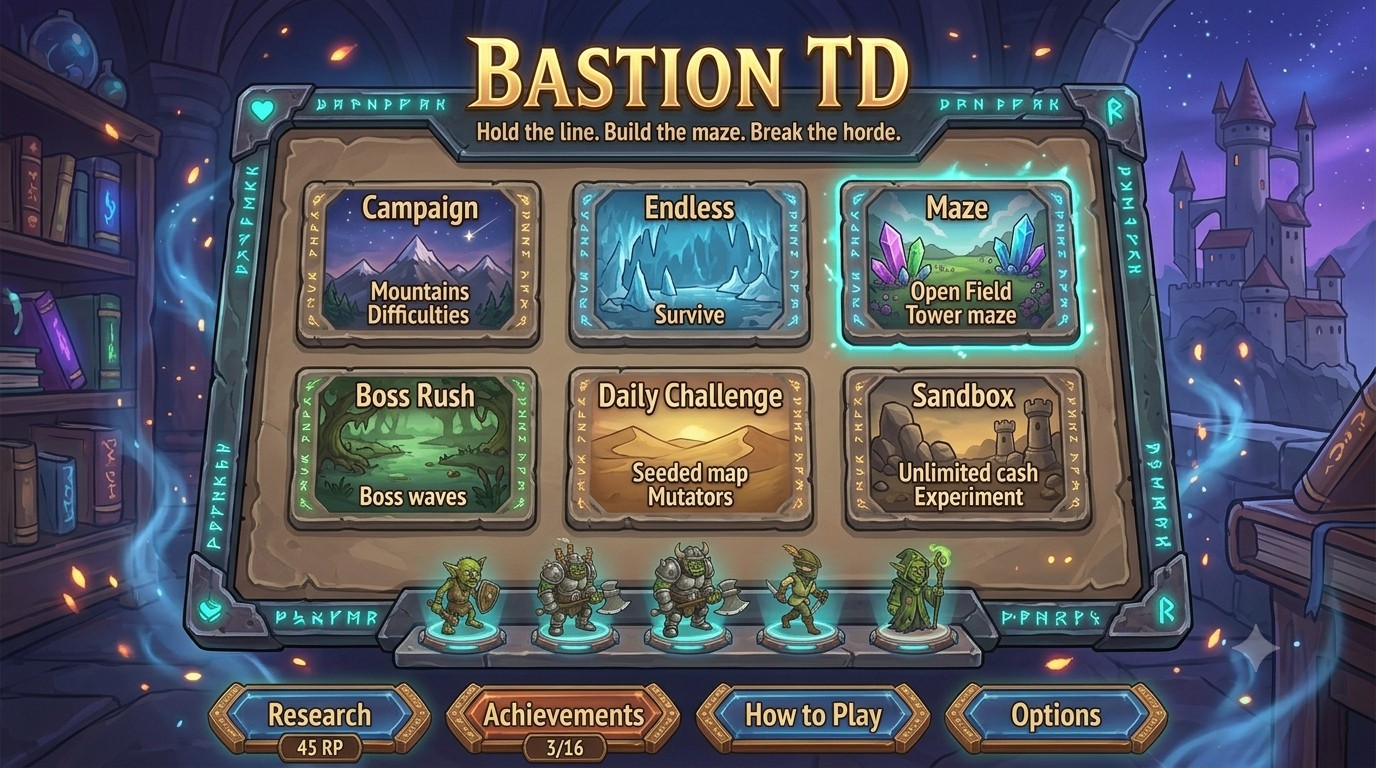
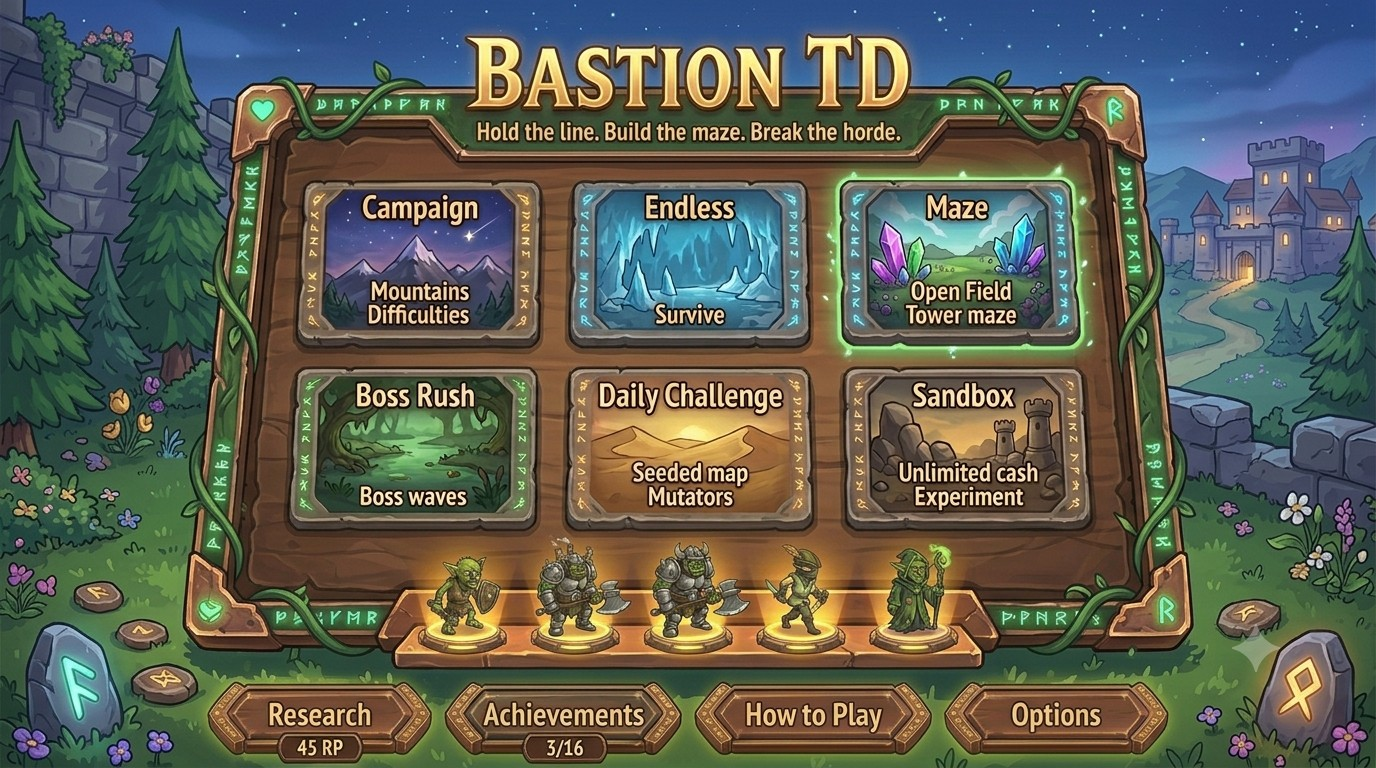
feat: new front-page art — dusk castle & forest menu scene
Swap the main-menu splash backdrop to the brighter outdoor castle/forest
scene; identical card/button layout so hotspot coords carry over. Cache-bust
the background url.

diff --git a/www/style.css b/www/style.css
@@ -694,7 +694,7 @@ body {
   position: relative;
   width: min(100%, calc((100vh - 8px) * 1376 / 768));
   aspect-ratio: 1376 / 768;
-  background: url('assets/ui/mainmenu.jpg') center/cover no-repeat;
+  background: url('assets/ui/mainmenu.jpg?v=2') center/cover no-repeat;
   border-radius: 6px;
   box-shadow: 0 0 60px rgba(0,0,0,.6);
   overflow: hidden;